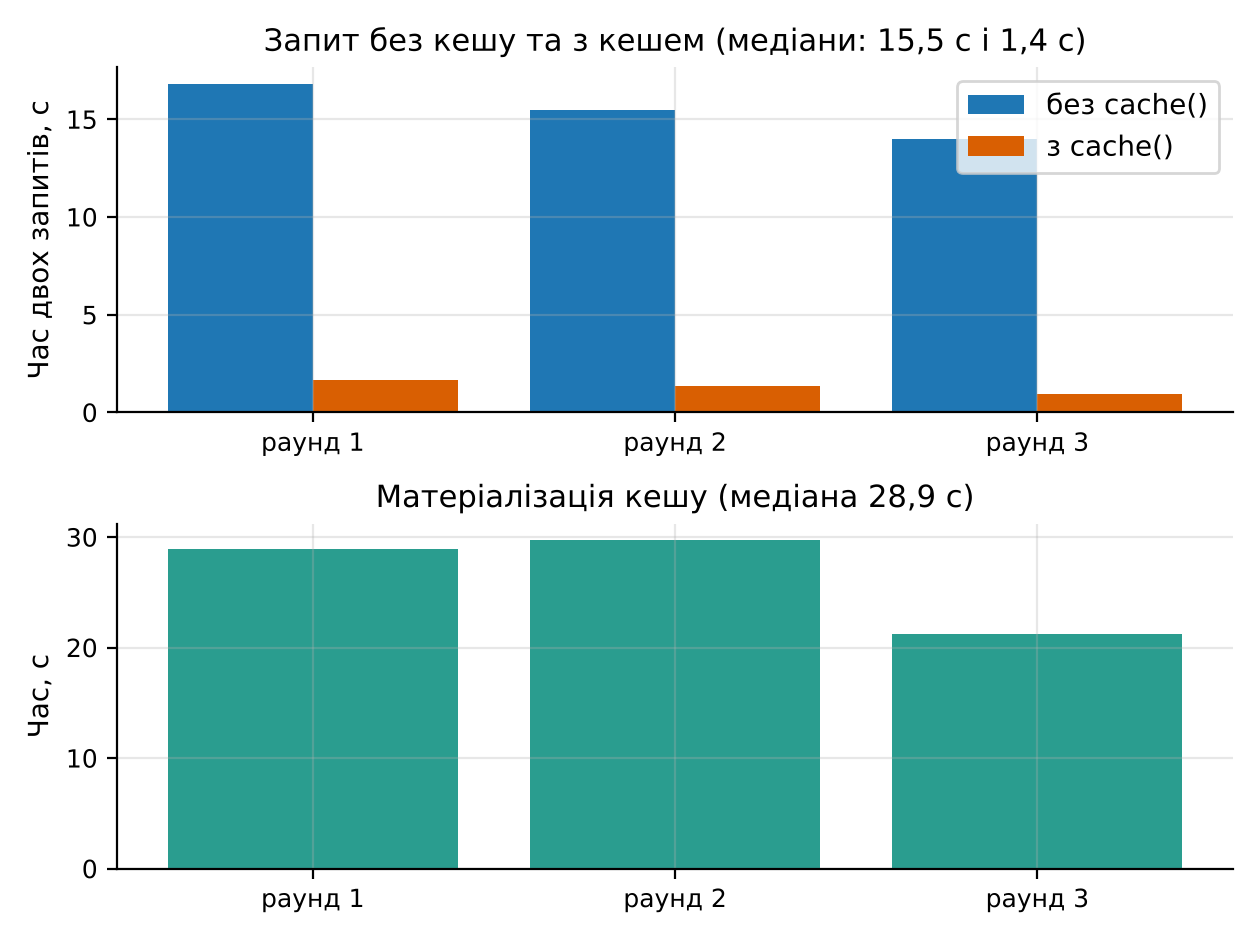
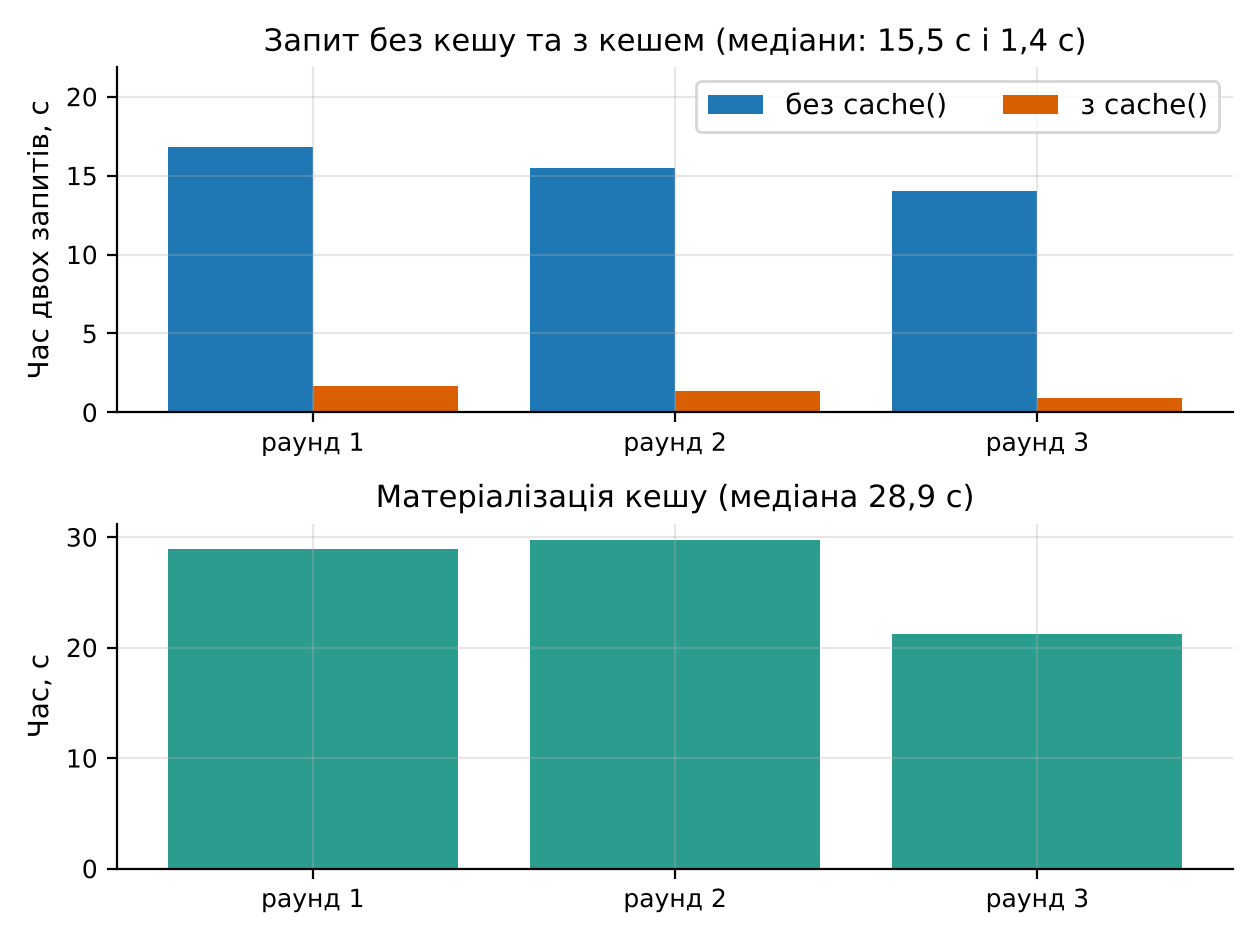
feat: clean reproducible PZ2 re-run with review fixes
Claude-Session: https://claude.ai/code/session_01KWCSK2tHnVV4Q7sUd1zkm9

diff --git a/work/pz2/code/make_figures.py b/work/pz2/code/make_figures.py
@@ -23,7 +23,7 @@ def out(n):
     import textwrap
     for ax in fig.axes:
         t = ax.get_title()
-        if t: ax.set_title("\n".join(textwrap.wrap(t, 62)), fontsize=11)
+        if t and "\n" not in t: ax.set_title("\n".join(textwrap.wrap(t, 62)), fontsize=11)
     plt.tight_layout(); plt.savefig(f"{FG}/{n}.png", dpi=200); plt.close()
 def cm(x, d=2): return f"{x:.{d}f}".replace(".", ",")
 daily = pd.read_parquet(f"{R}/pz2_daily_features.parquet"); hourly = pd.read_parquet(f"{R}/pz2_hourly_features.parquet")
@@ -39,18 +39,19 @@ out("fig01_close_log")
 # 2. Розподіл дохідностей vs нормальний (лог. вісь Y)
 from math import erf
 h = pd.read_csv(f"{R}/pz2_hist_ret_1m_active.csv"); mk = pd.read_csv(f"{R}/pz2_skew_kurtosis.csv")
-fig, ax = plt.subplots(2, 2, figsize=(6.3, 4.7)); ax = ax.ravel(); ax[3].axis("off")
-def panel(a, x, bw, title, xlab, lim):
+fig, ax = plt.subplots(1, 3, figsize=(6.3, 3.4))
+def panel(a, x, bw, title, xlab, lim, first=False):
     x = x[np.isfinite(x)]; mu, sd = x.mean(), x.std()
     bins = np.arange(-lim, lim + bw, bw); cnt, e = np.histogram(x, bins=bins); ce = (e[1:] + e[:-1]) / 2
     dens = cnt / (len(x) * bw); ok = cnt > 0
     a.semilogy(ce[ok], dens[ok], ".", color=C[0], ms=3, label="емпіричний")
-    g = np.linspace(-lim, lim, 400); a.semilogy(g, np.exp(-(g - mu) ** 2 / (2 * sd ** 2)) / (sd * np.sqrt(2 * np.pi)), color=C[1], label=f"нормальний (σ вибірки = {cm(sd,4)})")
-    a.set_title(title); a.set_xlabel(xlab); a.set_ylabel("Щільність (лог. шкала)"); a.legend(); a.set_ylim(bottom=1e-3)
+    g = np.linspace(-lim, lim, 400); a.semilogy(g, np.exp(-(g - mu) ** 2 / (2 * sd ** 2)) / (sd * np.sqrt(2 * np.pi)), color=C[1], label="нормальний")
+    a.set_title(f"{title}\nσ = {cm(sd,4)}", fontsize=10); a.set_xlabel(xlab); a.set_ylim(bottom=1e-3)
+    if first: a.set_ylabel("Щільність (лог. шкала)"); a.legend(loc="lower center")
 x1 = np.repeat(h.bin_center.values, h["count"].values)
-panel(ax[0], x1, 1e-4, "1 хвилина (свічки з торгами, обрізана вибірка |r|<0,01)", "Логарифмічна дохідність", 0.01)
-panel(ax[1], hourly.ret_1h.dropna().values, 0.002, "1 година", "Логарифмічна дохідність", 0.1)
-panel(ax[2], daily.ret_1d.dropna().values, 0.01, "1 доба", "Логарифмічна дохідність", 0.4)
+panel(ax[0], x1, 1e-4, "1 хв (з торгами, |r|<0,01)", "Лог. дохідність", 0.01, True)
+panel(ax[1], hourly.ret_1h.dropna().values, 0.002, "1 година", "Лог. дохідність", 0.1)
+panel(ax[2], daily.ret_1d.dropna().values, 0.01, "1 доба", "Лог. дохідність", 0.4)
 out("fig02_returns_vs_normal")
 
 # 3. Обсяг за годиною доби
@@ -106,7 +107,7 @@ fig, ax = plt.subplots(2, 1, figsize=(6.3, 4.7))
 u = c[c["mode"] == "without_cache"].seconds.values; cc_ = c[(c["mode"] == "with_cache") & (~c.run.str.startswith("materialize"))].seconds.values
 mat = c[c.run.str.startswith("materialize")].seconds.values
 ax[0].bar(np.arange(3) - .2, u, .4, color=C[0], label="без cache()"); ax[0].bar(np.arange(3) + .2, cc_, .4, color=C[1], label="з cache()")
-ax[0].set_xticks(range(3)); ax[0].set_xticklabels(["раунд 1", "раунд 2", "раунд 3"]); ax[0].set_ylabel("Час двох запитів, с"); ax[0].legend()
+ax[0].set_xticks(range(3)); ax[0].set_xticklabels(["раунд 1", "раунд 2", "раунд 3"]); ax[0].set_ylabel("Час двох запитів, с"); ax[0].set_ylim(0, max(u) * 1.3); ax[0].legend(loc="upper right", ncol=2)
 ax[0].set_title(f"Запит без кешу та з кешем (медіани: {cm(np.median(u),1)} с і {cm(np.median(cc_),1)} с)")
 ax[1].bar(range(3), mat, color=C[2]); ax[1].set_xticks(range(3)); ax[1].set_xticklabels(["раунд 1", "раунд 2", "раунд 3"]); ax[1].set_ylabel("Час, с")
 ax[1].set_title(f"Матеріалізація кешу (медіана {cm(np.median(mat),1)} с)"); out("fig09_cache")

diff --git a/work/pz3/code/make_figures.py b/work/pz3/code/make_figures.py
@@ -53,9 +53,9 @@ ax.xaxis.set_major_locator(mdates.HourLocator(interval=8)); ax.yaxis.set_major_f
 save(fig, F + "/pz3_window_volume.png")
 
 # 4. watermark: event time max і watermark за мікробатчами (sink_win15m) та розрив час обробки – watermark за запитами
-g = pg[(pg["query"] == "sink_win15m") & pg["watermark"].notna() & (pg["watermark"] > "1971-01-01")].sort_values("batch_id")
+g = pg[(pg["query"] == "sink_win15m") & pg["watermark"].notna() & (pg["watermark"] > "1971-01-01") & pg["event_time_max"].notna()].sort_values("batch_id")
 fig, ax = plt.subplots(2, 1, figsize=(W, H2), sharex=True)
-ax[0].plot(g["batch_id"], pd.to_datetime(g["event_time_max"]), color=C1, label="max event time у мікробатчі")
+ax[0].plot(g["batch_id"], pd.to_datetime(g["event_time_max"], utc=True), color=C1, label="max event time у мікробатчі")
 ax[0].plot(g["batch_id"], g["watermark"], color=C2, label="watermark (max event time – 10 хв)")
 ax[0].yaxis.set_major_formatter(mdates.DateFormatter("%d.%m.%Y")); ax[0].legend(fontsize=9); ax[0].set_title("Watermark запиту sink_win15m"); ax[0].set_ylabel("час події (UTC)")
 for q, col in (("sink_win15m", C1), ("sink_win1h", C3), ("mem_daily", C5), ("console_1h", C4)):

diff --git a/work/pz3/code/make_figures_anomaly.py b/work/pz3/code/make_figures_anomaly.py
@@ -44,7 +44,7 @@ for i, (lvl, nm, col) in enumerate((("minute", "хвилини", C2), ("15m_wind
     d = lf[lf.level == lvl].set_index("group").reindex(groups); ax.bar(x + (i - 1) * w, d["lift"], w, color=col, label=nm)
 ax.axhline(1, color="k", lw=.8, ls=":"); ax.set_xticks(x)
 lab = {"усі 5 днів подій": "5 днів", "2020-03-12": "12.03.20", "2020-03-13": "13.03.20", "2021-05-19": "19.05.21", "2022-11-08": "08.11.22", "2022-11-09": "09.11.22"}
-ax.set_xticklabels([lab.get(g, "період\n" + g.split(" ")[1]) for g in groups], fontsize=9)
+ax.set_xticklabels([lab[g] if g in lab else "період\n" + g.split(" ")[1] for g in groups], fontsize=9)
 ax.set_ylabel("lift"); ax.set_title(f"Концентрація аномалій у днях подій (k = {K_SEL})"); ax.legend(fontsize=9); commaize(ax, axis="y")
 save(fig, F + "/pz3_lift.png")
 

diff --git a/work/pz3/code/watermark_backlog_test.py b/work/pz3/code/watermark_backlog_test.py
@@ -10,7 +10,7 @@ R = sys.argv[1]
 spark = (SparkSession.builder.appName("PZ3-watermark-backlog").master("local[2]").config("spark.jars.packages", "org.apache.spark:spark-sql-kafka-0-10_2.13:4.3.0")
          .config("spark.sql.shuffle.partitions", "4").config("spark.sql.session.timezone", "UTC").config("spark.ui.enabled", "false").getOrCreate())
 spark.sparkContext.setLogLevel("ERROR")
-pol = spark.conf.get("spark.sql.streaming.multipleWatermarkPolicy", "min (за замовчуванням)")
+pol = spark.conf.get("spark.sql.streaming.multipleWatermarkPolicy")
 schema = T.StructType([T.StructField("ts", T.LongType()), T.StructField("open", T.DoubleType()), T.StructField("high", T.DoubleType()),
                        T.StructField("low", T.DoubleType()), T.StructField("close", T.DoubleType()), T.StructField("volume", T.DoubleType())])
 res = []

diff --git a/work/pz2/results/CHANGES_vs_old_run.md b/work/pz2/results/CHANGES_vs_old_run.md
@@ -1,0 +1,80 @@
+# ПЗ2: зміни чисел відносно _old_run (старе -> нове)
+
+Нове значення береться з results/ поточного запуску (`bash code/run_all.sh`), старе – з `_old_run/results`. Секундні виміри змінюються від запуску до запуску; зміни детермінованих величин спричинені двома змінами коду: вікна з `partitionBy(year, month)` (замість глобального вікна) і вимкненим злиттям розділів AQE.
+
+## 1. Числа, які використовує поточний report.md
+
+| Розділ / таблиця | Величина | Було | Стало | Примітка |
+|---|---|---|---|---|
+| 2 | inferSchema: завантаження+дія, с | 10,236 | 10,744 | було count() (без розбору стовпців), стало сума 6 стовпців, медіана з 3, прогрітий файловий кеш |
+| 2 | явна схема: завантаження+дія, с | 1,045 | 5,014 | те саме; відношення infer/explicit було ×9,8, тепер ×2,143 |
+| 3.3 | побудова плану (build), с | 0,245 | 0,174 |  |
+| 3.3 | перша дія count(), с | 7,829 | 6,653 | count() не обчислює вікон (plan без Window) |
+| 3.3 | повна дія (noop write), с | – | 24,537 | нове: повний прохід із вікнами |
+| 3.3 | agg(sum vol60, sum log_ret), с | – | 20,301 | нове |
+| 3.3 т.3 | без cache(), запуск 1, с | 19,774 | 16,811 |  |
+| 3.3 т.3 | без cache(), запуск 2, с | 17,565 | 15,484 |  |
+| 3.3 т.3 | без cache(), запуск 3, с | 18,349 | 14,012 |  |
+| 3.3 т.3 | з cache(), запуск 1, с | 3,184 | 1,640 |  |
+| 3.3 т.3 | з cache(), запуск 2, с | 2,376 | 1,363 |  |
+| 3.3 т.3 | з cache(), запуск 3, с | 2,329 | 0,927 |  |
+| 3.3 т.3 | матеріалізація кешу, с (було 1 запуск; тепер медіана з 3) | 82,293 | 28,950 | вікна з partitionBy(year, month): паралельно |
+| 3.3 | медіана без кешу, с | 18,349 | 15,484 |  |
+| 3.3 | медіана з кешем, с | 2,376 | 1,363 |  |
+| 3.3 | прискорення кешу, разів | 7,723 | 11,360 |  |
+| 3.3 | окупність, повторів | 5,152 | 2,050 |  |
+| 3.3 | розділів кешу | 1 (SinglePartition) | 16 з 16 |  |
+| 4.2 т.4 | 1 хв, усі свічки: n | 7816536,000 | 7816358,000 |  |
+| 4.2 т.4 | 1 хв, усі свічки: std | 0,002 | 0,002 |  |
+| 4.2 т.4 | 1 хв, усі свічки: skew | 3,920 | 3,920 |  |
+| 4.2 т.4 | 1 хв, усі свічки: excess_kurtosis | 7161,590 | 7161,620 |  |
+| 4.2 т.4 | 1 хв, лише з торгами (Volume>0): n | 6504118,000 | 6503968,000 |  |
+| 4.2 т.4 | 1 хв, лише з торгами (Volume>0): std | 0,002 | 0,002 |  |
+| 4.2 т.4 | 1 хв, лише з торгами (Volume>0): skew | 3,575 | 3,575 |  |
+| 4.2 т.4 | 1 хв, лише з торгами (Volume>0): excess_kurtosis | 5958,635 | 5958,658 |  |
+| 4.2 | rv після 2023 р. | «0,01–0,05» (хибно) | мін 0,003, p05 0,009, медіана 0,020, p95 0,041, макс 0,105 | C3 |
+| 6.1 т.7 | daily_ohlc / pandas: median, с | 5,734 | 4,884 | запуски чергувалися S,P,S,P,S,P |
+| 6.1 т.7 | daily_ohlc / pandas: min, с | 5,458 | 4,851 | запуски чергувалися S,P,S,P,S,P |
+| 6.1 т.7 | daily_ohlc / pandas: max, с | 6,243 | 5,449 | запуски чергувалися S,P,S,P,S,P |
+| 6.1 т.7 | daily_ohlc / spark_cached_df: median, с | 2,190 | 0,618 | кеш із 16 розділів |
+| 6.1 т.7 | daily_ohlc / spark_cached_df: min, с | 2,121 | 0,563 | кеш із 16 розділів |
+| 6.1 т.7 | daily_ohlc / spark_cached_df: max, с | 2,266 | 0,986 | кеш із 16 розділів |
+| 6.1 т.7 | daily_ohlc / spark_local[*]: median, с | 7,493 | 4,547 | запуски чергувалися S,P,S,P,S,P |
+| 6.1 т.7 | daily_ohlc / spark_local[*]: min, с | 5,593 | 4,220 | запуски чергувалися S,P,S,P,S,P |
+| 6.1 т.7 | daily_ohlc / spark_local[*]: max, с | 12,414 | 4,841 | запуски чергувалися S,P,S,P,S,P |
+| 6.1 т.7 | year_count_volume / pandas: median, с | 4,733 | 3,556 | запуски чергувалися S,P,S,P,S,P |
+| 6.1 т.7 | year_count_volume / pandas: min, с | 4,553 | 3,524 | запуски чергувалися S,P,S,P,S,P |
+| 6.1 т.7 | year_count_volume / pandas: max, с | 4,760 | 3,707 | запуски чергувалися S,P,S,P,S,P |
+| 6.1 т.7 | year_count_volume / spark_cached_df: median, с | 1,460 | 0,549 | кеш із 16 розділів |
+| 6.1 т.7 | year_count_volume / spark_cached_df: min, с | 1,410 | 0,428 | кеш із 16 розділів |
+| 6.1 т.7 | year_count_volume / spark_cached_df: max, с | 1,791 | 0,729 | кеш із 16 розділів |
+| 6.1 т.7 | year_count_volume / spark_local[*]: median, с | 3,897 | 3,588 | запуски чергувалися S,P,S,P,S,P |
+| 6.1 т.7 | year_count_volume / spark_local[*]: min, с | 3,159 | 3,023 | запуски чергувалися S,P,S,P,S,P |
+| 6.1 т.7 | year_count_volume / spark_local[*]: max, с | 4,638 | 3,944 | запуски чергувалися S,P,S,P,S,P |
+| 6.1 т.7 | пам'ять pandas, year_count_volume, МБ | 744,400 | 783,100 | медіана з 3 процесів |
+| 6.1 т.7 | пам'ять Spark JVM, year_count_volume, МБ | 1279,200 | 1483,300 | медіана з 3; додатково idle JVM 480.1 МБ, driver 2g: 923.3 МБ |
+| 6.1 т.7 | пам'ять Spark Python-клієнт, year_count_volume, МБ | 127,400 | 124,700 |  |
+| 6.1 т.7 | пам'ять pandas, daily_ohlc, МБ | 881,600 | 879,000 | медіана з 3 процесів |
+| 6.1 т.7 | пам'ять Spark JVM, daily_ohlc, МБ | 1478,100 | 1496,700 | медіана з 3; додатково idle JVM 480.1 МБ, driver 2g: 1026.1 МБ |
+| 6.1 т.7 | пам'ять Spark Python-клієнт, daily_ohlc, МБ | 131,800 | 128,900 |  |
+
+## 2. Детерміновані результати: порівняння CSV (old -> new)
+
+Файли зі змінами:
+- `env_versions.csv`: форма (22, 2) -> (24, 2)
+- `pz2_daily_features.csv`: 484 комірок відрізняється (напр. rv[517]: 0.0789532855948513 -> 0.0789445657883871; rv[790]: 0.0935040353864481 -> 0.0934824451226908; std_ret_1m[31]: 0.0043158711168395 -> 0.0043173710874741)
+- `pz2_describe.csv`: 6 комірок відрізняється (напр. log_ret[0]: 7816536.0 -> 7816358.0; log_ret[1]: 1.2391253045571997e-06 -> 1.236018769628706e-06; vol60[0]: 7816535.0 -> 7816179.0)
+- `pz2_hist_ret_1m_active.csv`: 46 комірок відрізняється (напр. count[43]: 1661 -> 1659; count[55]: 3653 -> 3652)
+- `pz2_skew_kurtosis.csv`: форма (6, 8) -> (9, 8)
+- `pz2_sql_q4_month_seasonality.csv`: 1 комірок відрізняється (напр. avg_daily_rv[10]: 0.03163 -> 0.03162)
+- `pz2_volume_by_hour.csv`: 1 комірок відрізняється (напр. std_ret_1m[0]: 0.0016559101347242 -> 0.0016560692487397)
+
+Файли без змін (збігаються з точністю 1e-6): pz2_cleaning.csv, pz2_flat_summary.csv, pz2_load_summary.csv, pz2_schema_nulls.csv, pz2_sql_q1_year_stats.csv, pz2_sql_q2_top_days_range.csv, pz2_sql_q3_dow_hour_volume.csv, pz2_sql_q5_max_volume_day_per_year.csv, pz2_sql_q6_crash_days_vs_30d_mean.csv, pz2_top10_hl_rel.csv, pz2_top10_hl_rel_active.csv, pz2_top10_rv.csv, pz2_top10_rv_active.csv, pz2_volume_by_year.csv, pz2_yearly_volume_flat.csv
+
+## 3. Нові файли результатів
+
+`pz2_cache_partitions.csv`, `pz2_engine_equality.csv`, `pz2_lazy_vs_action_summary.csv`, `pz2_memory_runs.csv`, `pz2_partition_sizes.csv`, `pz2_rv_after2023.csv`, `pz2_schema_experiment.csv`, `pz2_schema_experiment_summary.csv`, `pz2_sql_q7_summary.csv`, `pz2_sql_q7_volume_spike_days.csv`, `pz2_top10_abs_minute_returns.csv`, `pz2_window_boundary.csv`
+
+## 4. Перейменовані рисунки і скріншоти
+
+fig08_timings -> fig08_engines + fig09_cache; fig09_flat_share -> fig10_flat_share; нові fig11_lazy_actions, fig12_volume_spikes; term_10_sql_q6_crash_days_vs_30d_median -> term_10_sql_q6_crash_days_vs_30d_mean; нові term_02a_schema_experiment, term_10_sql_q7_volume_spike_days, spark_ui_sql_detail_q1; spark_ui_sql_shots.py видалено (знімки робить основний скрипт).

diff --git a/work/pz2/results/INDEX.md b/work/pz2/results/INDEX.md
@@ -1,0 +1,28 @@
+# ПЗ2 – індекс результатів (завдання з методички -> файли)
+
+Усі результати, рисунки і скріншоти створено одним запуском поточного коду (після виправлень за REVIEW.md); попередній запуск збережено в `_old_run/` (не для звіту).
+
+Запуск: `bash code/run_all.sh` (з каталогу pz2), що послідовно виконує `code/env_shots.py`, `code/pz2_spark.py` (повний конвеєр, Spark UI-знімки робить цей самий скрипт, поки SparkSession жива), `code/measure_memory.py` (пам'ять), `code/make_figures.py` (стиль 6,3x3,4 дюйма, dpi 200, десяткова кома), `code/make_screens.py`. Тривалість: див. `logs/run_all_runtime.txt` і `TOTAL_script_runtime` у `timings.csv`. Seed 42. Версії та конфігурація: `env_versions.csv`. Допоміжний `code/smoke_test.py` викликає env_shots.py. Порівняння з попереднім запуском: `CHANGES_vs_old_run.md`.
+
+| Завдання | Результати (results/) | Скріншоти / рисунки |
+|---|---|---|
+| 1. Середовище, SparkSession | env_versions.csv | screenshots/term_01_env, term_13_java_version, term_14_python_version, term_15_pip_show_pyspark, term_16_jupyter_version, term_17_pyspark_smoke, spark_ui_environment, spark_ui_executors |
+| 2. Завантаження: записи, атрибути, поля, типи, пропуски; inferSchema проти явної схеми | pz2_load_summary.csv, pz2_schema_nulls.csv, pz2_schema_experiment.csv, pz2_schema_experiment_summary.csv | term_02_schema, term_02a_schema_experiment, term_03_nulls |
+| 3. Попередня обробка (дублікати, типи, похідні; вікна partitionBy(year, month)) | pz2_cleaning.csv, pz2_describe.csv, pz2_flat_summary.csv, pz2_yearly_volume_flat.csv, pz2_window_boundary.csv (крайовий ефект вікон), pz2_partition_sizes.csv | term_06_derived, figures/fig10_flat_share |
+| Ліниві обчислення, explain() (C1) | pz2_lazy_vs_action.csv, pz2_lazy_vs_action_summary.csv, logs/explain_count.txt, logs/explain_sum_vol60.txt, logs/explain_full.txt | term_04_lazy, spark_ui_jobs, spark_ui_stages, spark_ui_sql_detail (DAG повного проходу з Window), fig11_lazy_actions |
+| Кешування, розділи кешу (M4) | pz2_cache_experiment.csv, pz2_cache_summary.csv, pz2_cache_partitions.csv | term_05_cache, spark_ui_storage, fig09_cache |
+| 4. Аналітика: топ-10 діб, обсяг за годиною/роком, моменти, стійкість моментів (M7), rv після 2023 (C3) | pz2_top10_rv*.csv, pz2_top10_hl_rel*.csv, pz2_volume_by_hour.csv, pz2_volume_by_year.csv, pz2_skew_kurtosis.csv, pz2_top10_abs_minute_returns.csv, pz2_rv_after2023.csv, pz2_hist_ret_1m_active.csv, pz2_daily_features.parquet/.csv, pz2_hourly_features.parquet | term_07_top_days, term_08_volume, term_09_moments, fig01-fig06 |
+| 5. Spark SQL (Q1-Q7; Q7 = усі доби зі сплеском обсягу, M6) | pz2_sql_q1..q7_*.csv, pz2_sql_q7_summary.csv, pz2_sql_queries.sql | term_10_sql_q1..q7, term_11_sql_explain, spark_ui_sql, spark_ui_sql_detail_q1, fig07_dow_hour_heatmap, fig12_volume_spikes |
+| 6. MapReduce vs Spark (вимірювання Spark/pandas, чергування S,P; M8) | pz2_engine_comparison.csv, pz2_engine_comparison_summary.csv, pz2_engine_equality.csv (повна звірка), pz2_memory.csv, pz2_memory_runs.csv (code/measure_memory.py) | term_12_engines, fig08_engines |
+| 7. Візуалізація | – | figures/fig01-fig12 (12 рисунків) |
+| Часи кроків | timings.csv | |
+
+Hadoop Streaming: у таблицях і timings.csv рядки-заповнювачі `[ЗАПОВНИТИ ПІСЛЯ ЗАПУСКУ]` (окремий бенчмарк).
+
+Примітки до інтерпретації:
+- Вікна рахуються з `partitionBy(year, month)`: перший рядок кожного місяця має `log_ret = NULL`, перші 59 хв місяця мають менше 60 точок у `vol60` (кількості в pz2_window_boundary.csv). Глобальне вікно зводило б усі 7,8 млн рядків в один розділ.
+- `spark.sql.adaptive.coalescePartitions.enabled=false`, щоб кеш мав усі 16 розділів.
+- `count()` не обчислює вікон (ColumnPruning); повний прохід вимірюється через `write.format("noop")` і `agg(sum(vol60), sum(log_ret))`.
+- Порівняння рушіїв: час Spark включає `toPandas()`, pandas працює в одному потоці; запуски Spark і pandas чергувалися в сесії без кешу, рядки «spark_cached_df» виміряно після кешування.
+- Пікова пам'ять RSS JVM відображає ліниве звільнення пам'яті збирачем сміття, а не мінімальну потребу (див. рядки idle і driver 2g у pz2_memory.csv).
+- Скріншоти терміналів: заголовок `$ python code/pz2_spark.py`, приглушений рядок `# фрагмент виводу: ...`, далі справжній stdout; Spark UI – знімки області таблиці або графа (viewport 1280x800, масштаб 2).
